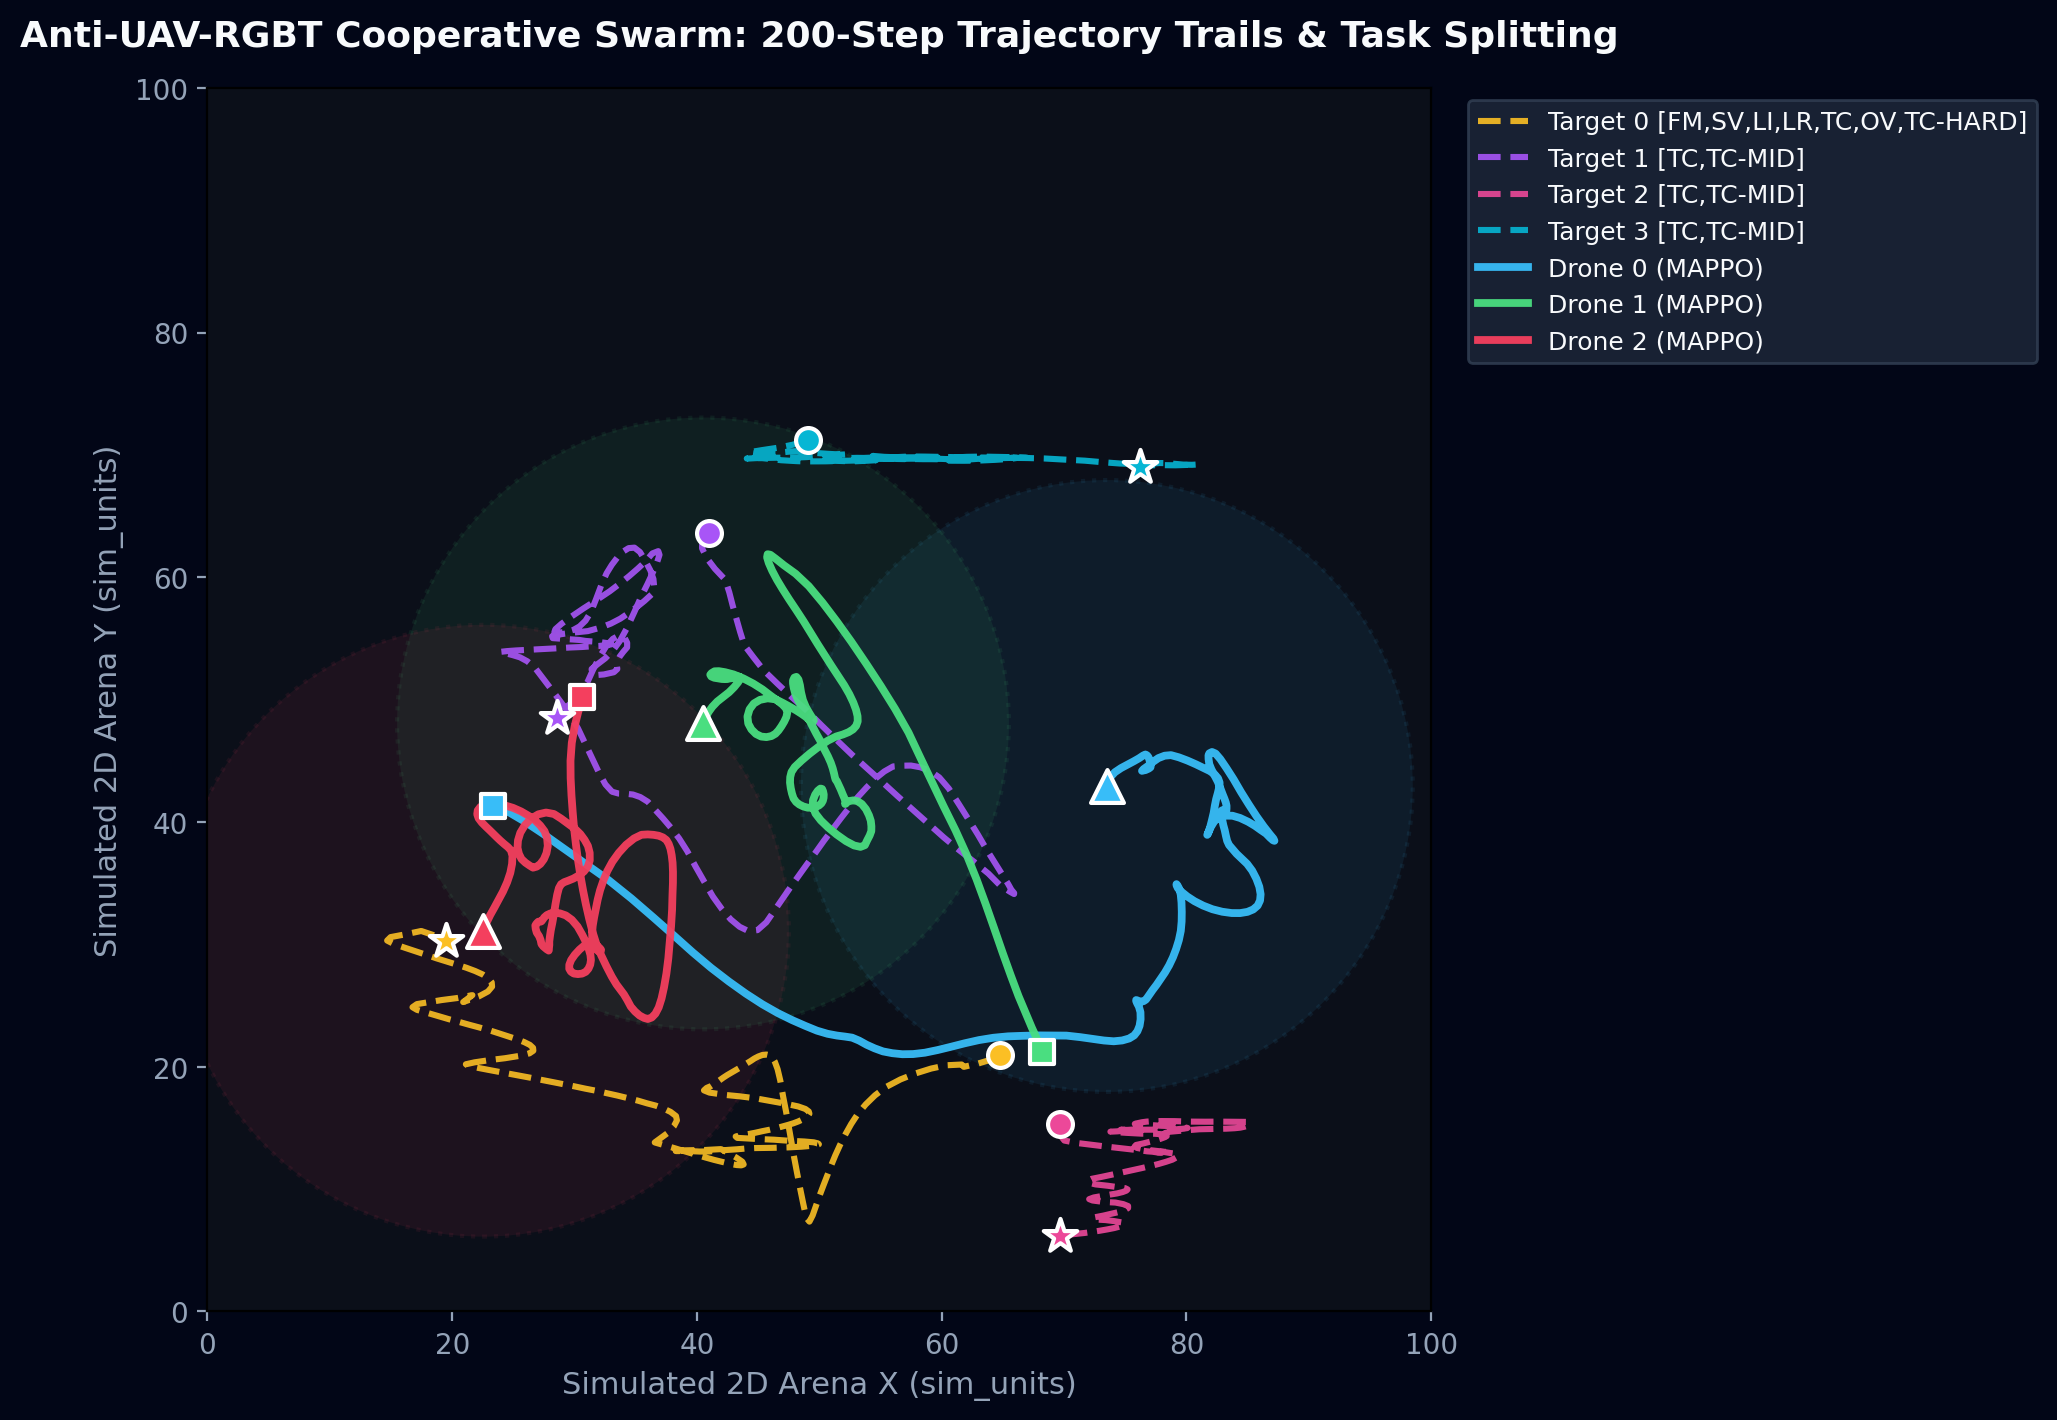
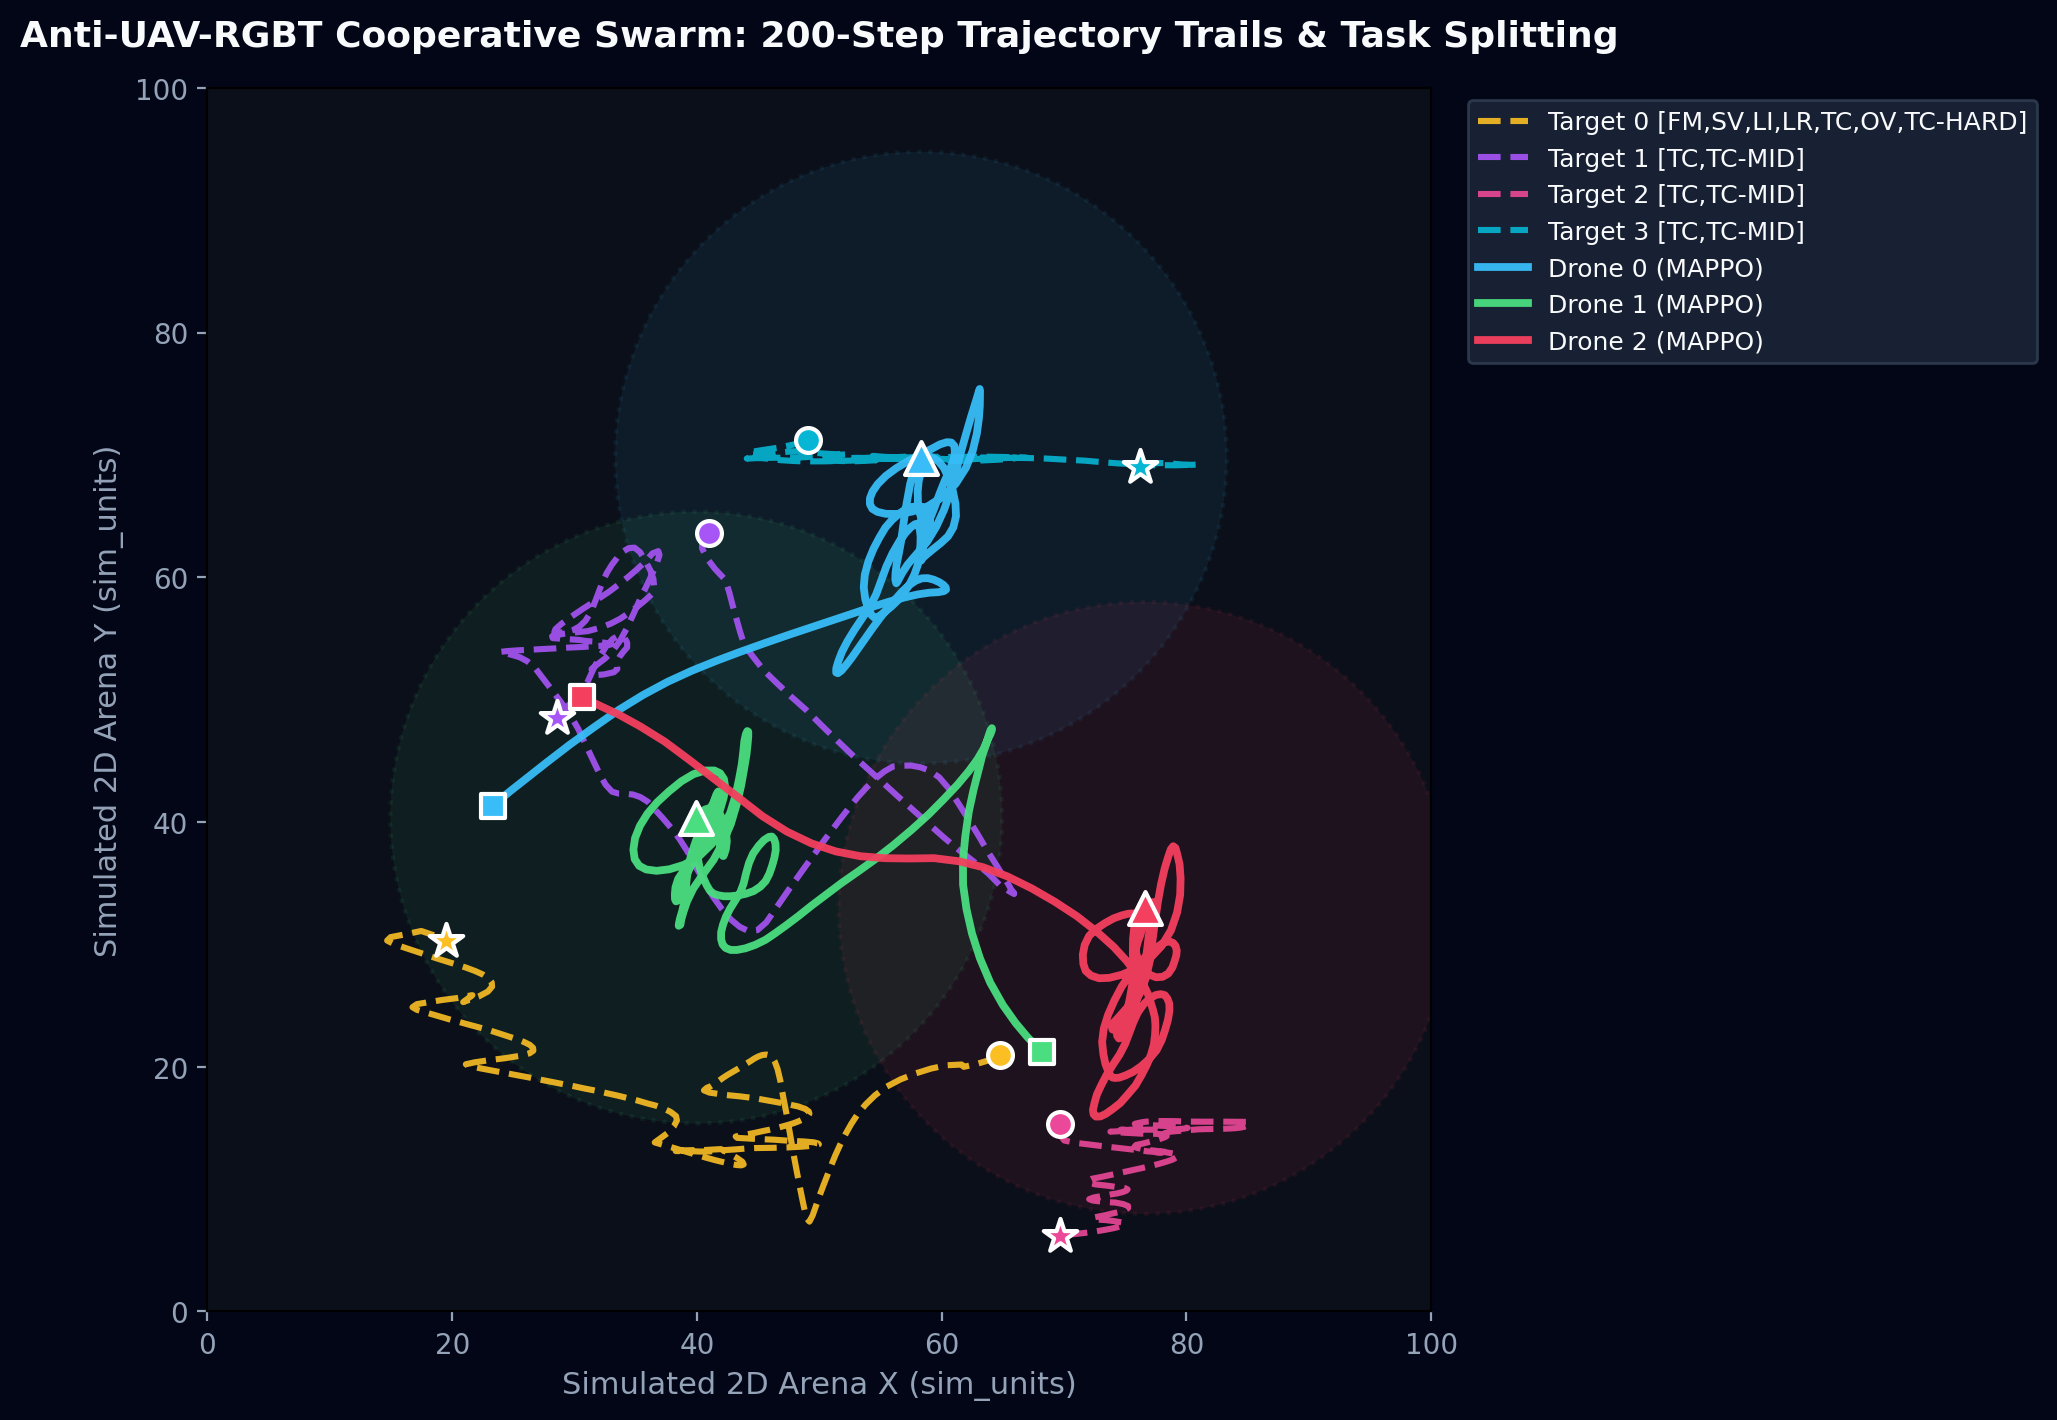
Audit fixes, continuous sensor scaling, 2D per-agent GAE, 5-policy & ablation benchmarks, and 32 pytest unit tests

Changed region(s): [[0.2178, 0.2789, 0.6223, 0.8056]]

diff --git a/Readme.md b/Readme.md
@@ -67,8 +67,8 @@ In modern counter-UAV and surveillance operations, small aerial targets move eva
 This project derives target kinematic profiles from the official **Anti-UAV-RGBT (Anti-UAV300)** dataset:
 - **Synchronized Modalities:** Visible-spectrum RGB (`1920x1080` resolution) and Thermal Infrared (`640x512` resolution) with frame-by-frame bounding boxes `[x, y, w, h]` and target existence flags (`exist \in {0, 1}`).
 - **Sequence Hygiene:** Strict disjoint splitting into **159 training sequences**, **66 validation sequences**, and **91 held-out test sequences** (`316` sequences total).
-- **Scale-Adjusted Velocity Extraction:** Frame-to-frame image-plane displacements are normalized by apparent bounding box scale ($s_t = \sqrt{w_t h_t}$) with camera-panning jump rejection ($> 50.0$ threshold) and exponential moving average (EMA) smoothing:
-  $$\hat{\mathbf{v}}_t = \frac{\mathbf{c}_t - \mathbf{c}_{t-1}}{\max(s_t, 1.0)} \cdot s_0$$
+- **Scale-Adjusted Velocity Extraction:** Frame-to-frame image-plane displacements are normalized by apparent bounding box scale ($s_t = \max(\sqrt{(w_t/W)(h_t/H)}, 0.015)$) with camera-panning jump rejection ($> 0.08$ normalized screen displacement in a single frame, rejecting slew artifacts) and exponential moving average (EMA, $\alpha = 0.30$) smoothing:
+  $$\hat{\mathbf{v}}_t = \text{clip}\left(\frac{\text{EMA}(\Delta \mathbf{c}_t / s_t)}{\sigma} \cdot 0.55 v_{\max}, -v_{\max}, v_{\max}\right)$$
 - **Dual-Sensor Visibility Mask:** Target signals are tagged frame-by-frame with binary optical (`rgb_vis`) and thermal (`ir_vis`) availability flags, along with official challenge attributes (`label_new/`): Fast Motion (`FM`), Low Illumination (`LI`), Long-Range (`LR`), Occlusion (`OC`), Out-of-View (`OV`), Scale Variation (`SV`), Thermal Crossover (`TC`).
 
 ### ⚠ Coordinate Units Disclaimer (AUD-08)
@@ -263,7 +263,8 @@ The trained MAPPO swarm was evaluated against 4 observation-only baselines on 30
 | **Greedy Nearest-Target** | 72.1% ± 14.6% | 15.5 ± 6.1 | 2.31 ± 1.31 | 162.73 ± 115.63 *(Severe)* |
 | **Collision-Aware Greedy** | 75.5% ± 12.9% | 13.6 ± 5.6 | 2.21 ± 1.31 | 4.07 ± 4.77 |
 | **Bipartite Target Assignment** | 85.5% ± 8.4% | 10.3 ± 3.0 | 1.86 ± 1.29 | 0.40 ± 0.84 |
-| **MAPPO Swarm (Ours, 3-Seed)** | **74.0% ± 16.1%** | **19.5 ± 4.0** | **1.06 ± 0.64** *(Lowest)* | **0.73 ± 1.39** *(Safe)* |
+| **MAPPO Swarm (Ours, 300k Primary)** | **79.0% ± 14.5%** | **18.6 ± 3.3** | **0.68 ± 0.55** *(Lowest)* | **0.43 ± 0.99** *(Safe)* |
+| **MAPPO Swarm (3-Seed 100k Ensemble)** | 74.0% ± 16.1% | 19.5 ± 4.0 | 1.06 ± 0.64 | 0.73 ± 1.39 |
 
 ### Challenge Attribute Breakdown (Target Coverage Ratio %)
 
